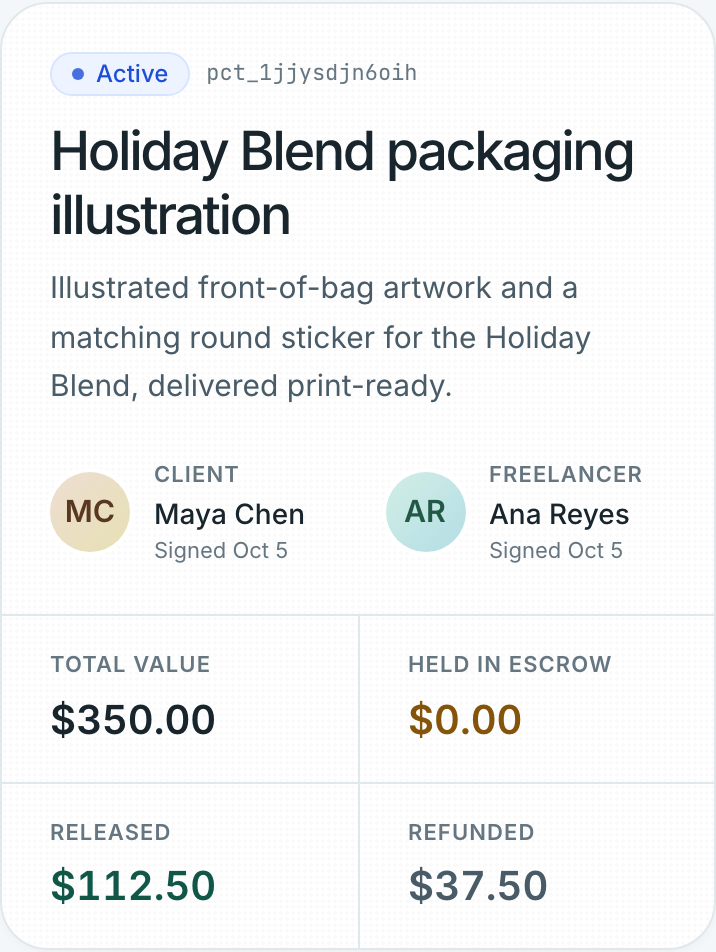
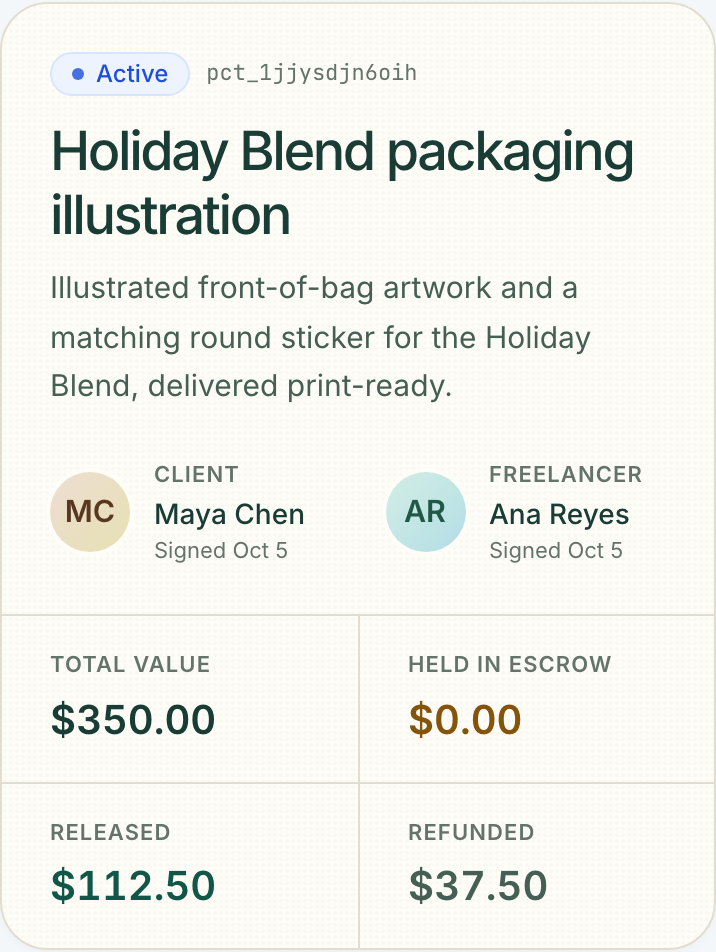
Keep workflow selections stable and refine cream and green walkthroughs

diff --git a/src/components/marketing/site.css b/src/components/marketing/site.css
@@ -1,22 +1,22 @@
-.kept-site{--site-dark:#163d32;--site-muted:#71817b;background:#fbfcfa;color:#182f27;font-family:var(--font-sans);overflow:hidden}.site-wrap{max-width:1200px;margin:auto;padding-left:32px;padding-right:32px}.site-nav{position:sticky;top:0;z-index:40;background:#fbfcfae8;backdrop-filter:blur(18px);border-bottom:1px solid #e9ede8}.nav-inner{height:84px;display:flex;align-items:center;gap:64px}.nav-inner nav{display:flex;gap:28px;font-size:13px;color:#56635d}.nav-inner a:hover{color:#148a6f}.nav-actions{margin-left:auto;display:flex;align-items:center;gap:25px;font-size:13px}.site-button{display:inline-flex;align-items:center;justify-content:center;gap:20px;border-radius:12px;background:#193e32;color:#fff!important;padding:17px 23px;font-size:13px;font-weight:600;box-shadow:0 5px 15px #193e3212;transition:transform .2s,background .2s,box-shadow .2s}.site-button:hover{background:#28604c;transform:translateY(-3px);box-shadow:0 9px 20px #193e3222}.site-button.small{padding:12px 17px;border-radius:9px;gap:12px}.site-button.secondary{background:#fff;color:#244435!important;border:1px solid #dce4dd;box-shadow:none;gap:10px}.site-hero{display:grid;grid-template-columns:1fr 1fr;gap:58px;align-items:center;min-height:680px;padding-top:64px;padding-bottom:64px}.eyebrow{font-size:10px;letter-spacing:.15em;font-weight:600;color:#557666;display:flex;align-items:center;gap:8px}.eyebrow>span{width:6px;height:6px;border-radius:50%;background:#49a07d;box-shadow:0 0 0 4px #e5f1e8}.hero-copy h1{font-size:clamp(54px,5.8vw,79px);line-height:1.06;letter-spacing:-.065em;font-weight:500;margin:26px 0}.hero-copy h1>span{color:#5c876b}.hero-copy>p{font-size:16px;line-height:1.8;max-width:400px;color:#6a7770}.hero-actions{display:flex;gap:12px;margin-top:32px;flex-wrap:wrap}.hero-note{display:flex;align-items:center;gap:10px;font-size:11px;color:#7a877f;margin-top:21px}.tiny-check{display:flex;align-items:center;justify-content:center;width:15px;height:15px;border-radius:50%;background:#e4eee5;color:#42724e}.hero-product{position:relative;padding:8px 12px 30px}.product-halo{position:absolute;inset:7% -15%;background:radial-gradient(ellipse,#d7e8cf 0%,#eef4e780 52%,transparent 70%);filter:blur(5px)}.product-preview{position:relative;background:white;border:1px solid #e1e8df;border-radius:18px;box-shadow:0 32px 65px -35px #173c3245,0 2px 8px #193e320a;transform:rotate(2deg);transition:transform .6s}.product-preview:hover{transform:rotate(0)}.preview-toolbar{display:flex;gap:15px;align-items:center;padding:16px 20px;border-bottom:1px solid #ecf0eb;font-size:9px;color:#8b978f}.preview-toolbar>svg{margin-left:auto}.preview-dots{display:flex;gap:4px}.preview-dots i{width:5px;height:5px;background:#d8e0d7;border-radius:50%}.preview-body{padding:25px}.preview-top{display:flex;align-items:center;justify-content:space-between}.preview-label{font-size:9px;letter-spacing:.14em;color:#8b978f}.preview-live{font-size:9px;background:#f0f5ed;padding:5px 8px;border-radius:20px;color:#6b8465;display:flex;gap:5px;align-items:center}.preview-live i{width:4px;height:4px;background:#7a9b66;border-radius:50%}.preview-body h3{font-size:25px;letter-spacing:-.04em;font-weight:500;line-height:1.2;margin-top:15px}.preview-people{display:flex;align-items:center;margin-top:15px;gap:0}.mini-avatar{width:26px;height:26px;border:2px solid white;border-radius:50%;background:#edddc5;color:#876a3e;display:inline-flex;align-items:center;justify-content:center;font-size:8px;font-weight:600}.mini-avatar.mint{background:#d7e6d1;color:#5c7b53;margin-left:-5px}.preview-people>span:last-child{display:flex;gap:7px;margin-left:9px;color:#80907f;font-size:9px}.preview-art{position:relative;overflow:hidden;height:202px;border-radius:10px;background:#dfb389;margin-top:22px;display:flex;align-items:center;justify-content:center}.art-sun{position:absolute;right:-15px;top:-55px;background:#f4d19c;width:200px;height:200px;border-radius:50%}.art-orbit{position:absolute;width:250px;height:110px;border:1px solid #936b3f30;border-radius:50%;transform:rotate(-35deg);left:-100px;bottom:20px}.art-orbit.o2{left:-80px;bottom:0}.coffee-bag{z-index:1;position:relative;transform:rotate(-8deg);width:109px;height:168px;background:#2b503e;box-shadow:10px 10px 20px #462e2730;border-radius:6px 6px 12px 12px;color:#e9d4ae;padding:17px 13px;display:flex;flex-direction:column;border-top:9px solid #335d48;border-bottom:6px solid #234232}.coffee-bag>span{font-size:8px;letter-spacing:.2em}.bag-mark{font-size:32px;line-height:40px;color:#dcaa71}.coffee-bag b{font-size:17px;line-height:18px;font-family:Georgia,serif;font-weight:400}.coffee-bag small{font-size:5px;letter-spacing:.15em;margin-top:auto}.art-caption{position:absolute;right:18px;bottom:20px;font-size:8px;line-height:1.7;letter-spacing:.13em;color:#6c4b31}.preview-result{display:flex;gap:11px;align-items:center;background:#f6f8f3;padding:13px;border:1px solid #e7ede2;border-radius:10px;margin-top:17px;min-height:65px}.result-icon{width:32px;height:32px;display:flex;align-items:center;justify-content:center;border-radius:8px;background:white;color:#5d885b}.result-icon svg{width:17px}.preview-result b{display:block;font-size:11px;font-weight:500}.preview-result span{display:block;font-size:9px;color:#8b9688;margin-top:4px}.result-check{margin-left:auto;color:#6b9762}.floating-note{position:absolute;bottom:4px;left:-20px;background:white;box-shadow:0 8px 35px #153d3210;border:1px solid #e5eae1;border-radius:11px;padding:17px 20px;display:flex;gap:12px;align-items:center;font-size:11px;color:#4c7358;animation:note-float 6s ease-in-out infinite}.trust-row{display:flex;align-items:center;justify-content:space-between;gap:20px;border-top:1px solid #e7ece5;border-bottom:1px solid #e7ece5;padding-top:27px;padding-bottom:27px;color:#677b6d;font-size:12px}.trust-row>span{color:#97a197;font-size:11px}.trust-row>div{display:flex;gap:10px;align-items:center}.workflow-section{padding-top:104px;padding-bottom:100px}.section-heading{display:flex;align-items:end;justify-content:space-between;gap:30px;margin-bottom:35px}.section-heading h2,.review-copy h2,.closing-card h2{font-size:43px;line-height:1.16;letter-spacing:-.055em;font-weight:500;margin-top:16px}.section-heading>p{font-size:13px;line-height:1.8;color:#859084}.workflow-grid{display:grid;grid-template-columns:repeat(3,1fr);gap:18px}.workflow-card{text-align:left;position:relative;border:1px solid #e5eae2;border-radius:16px;padding:29px;background:white;transition:border-color .3s,box-shadow .3s;cursor:pointer}.workflow-card.selected{border-color:#779a77;background:#f4f8f0;box-shadow:0 8px 24px #193e3208}.workflow-card:hover{border-color:#8fa68b;box-shadow:0 12px 30px #193e320c}.workflow-num{position:absolute;right:24px;top:25px;font-size:10px;color:#a2afa0}.workflow-card>svg{color:#537756;margin:12px 0 24px}.workflow-card h3{font-size:21px;letter-spacing:-.03em;font-weight:500}.workflow-card p{font-size:12px;line-height:1.8;color:#7d8b7c;margin:10px 0 24px;max-width:220px}.workflow-footer{border-top:1px solid #e2e9dc;padding-top:16px;display:flex;align-items:center;justify-content:space-between;font-size:10px;gap:12px;color:#547153}.review-section{display:grid;grid-template-columns:1fr 1fr;gap:85px;padding-top:32px;padding-bottom:112px;align-items:center}.review-visual{background:white;border:1px solid #e2e8df;border-radius:17px;padding:28px;box-shadow:0 20px 50px -20px #193e321c}.review-heading{display:flex;justify-content:space-between;align-items:center;padding-bottom:25px}.review-heading>span:first-child{display:flex;gap:10px;align-items:center;font-size:13px;font-weight:600;color:#345b45}.review-chip{font-size:9px;background:#f0f4ed;padding:5px 8px;border-radius:6px;color:#7e9272}.review-line{display:flex;align-items:center;gap:12px;padding:20px 0;border-top:1px solid #eef1eb}.check-circle,.question-circle{width:26px;height:26px;border-radius:50%;background:#e8f1e4;color:#548148;display:flex;align-items:center;justify-content:center;flex-shrink:0;font-size:13px}.question-circle{background:#fff3d9;color:#a58436}.review-line b{font-size:11px;font-weight:500;display:block}.review-line small{font-size:10px;color:#9aa497;display:block;margin-top:5px}.review-line>span:last-child{font-size:9px;margin-left:auto;color:#7b8b70;white-space:nowrap}.review-bottom{display:flex;align-items:center;gap:12px;background:#f5f7f1;padding:13px;border-radius:9px;font-size:10px;color:#78906e;margin-top:12px}.review-copy>p{font-size:14px;line-height:1.9;color:#7b887c;margin-top:20px}.review-points{display:flex;flex-direction:column;gap:14px;margin-top:24px;font-size:11px;color:#557452}.review-points>span{display:flex;align-items:center;gap:10px}.agent-strip{display:flex;align-items:center;gap:25px;padding:36px 40px;background:#edf3e8;border:1px solid #e1e8da;border-radius:15px}.agent-icon{background:white;padding:20px;border-radius:15px;color:#537347}.agent-strip h3{font-size:20px;font-weight:500;letter-spacing:-.03em;margin:9px 0}.agent-strip p{font-size:12px;color:#83927c}.agent-strip>a{display:flex;align-items:center;gap:10px;margin-left:auto;white-space:nowrap;font-size:12px;color:#3c663b}.agent-strip .eyebrow{font-size:8px}.closing-card{text-align:center;border-radius:20px;padding:75px 20px;margin:90px 0 60px;background:radial-gradient(ellipse at 50% 20%,#f1f6e8,transparent 65%);border:1px solid #e7ecdf}.closing-symbol{display:flex;align-items:center;justify-content:center;margin:0 auto 22px;width:54px;height:54px;background:#ecf2e4;border-radius:16px;color:#6a8d55}.closing-card h2{font-size:49px}.closing-card>p{font-size:13px;color:#87947f;margin:19px 0 28px}.closing-card .text-button{display:flex;align-items:center;justify-content:center;gap:6px;font-size:11px;margin:20px auto 0;color:#7d9073}.site-footer{display:flex;align-items:center;gap:24px;padding-bottom:35px;font-size:10px;color:#95a18d}.site-footer p{margin-left:auto}.demo-overlay{position:fixed;inset:0;z-index:80;background:#142f2855;backdrop-filter:blur(6px);display:flex;align-items:center;justify-content:center;padding:20px}.demo-modal{background:#fff;border-radius:20px;padding:35px;max-width:600px;width:100%;position:relative;box-shadow:0 25px 90px #112e2740}.demo-modal h2{font-size:30px;letter-spacing:-.05em;margin:15px 0 10px}.demo-modal>p{font-size:13px;color:#83927d;margin-bottom:25px}.modal-close{position:absolute;right:20px;top:20px;color:#83927d}.kept-site a:focus-visible,.kept-site button:focus-visible{outline:2px solid #689564;outline-offset:5px}@keyframes note-float{50%{transform:translateY(-7px)}}
+.kept-site{--site-dark:#163d32;--site-muted:#71817b;background:#fbfcfa;color:#182f27;font-family:var(--font-sans);overflow:hidden}.site-wrap{max-width:1200px;margin:auto;padding-left:32px;padding-right:32px}.site-nav{position:sticky;top:0;z-index:40;background:#fbfcfae8;backdrop-filter:blur(18px);border-bottom:1px solid #e9ede8}.nav-inner{height:84px;display:flex;align-items:center;gap:64px}.nav-inner nav{display:flex;gap:28px;font-size:13px;color:#56635d}.nav-inner a:hover{color:#148a6f}.nav-actions{margin-left:auto;display:flex;align-items:center;gap:25px;font-size:13px}.site-button{display:inline-flex;align-items:center;justify-content:center;gap:20px;border-radius:12px;background:#193e32;color:#fff!important;padding:17px 23px;font-size:13px;font-weight:600;box-shadow:0 5px 15px #193e3212;transition:transform .2s,background .2s,box-shadow .2s}.site-button:hover{background:#28604c;transform:translateY(-3px);box-shadow:0 9px 20px #193e3222}.site-button.small{padding:12px 17px;border-radius:9px;gap:12px}.site-button.secondary{background:#fff;color:#244435!important;border:1px solid #dce4dd;box-shadow:none;gap:10px}.site-hero{display:grid;grid-template-columns:1fr 1fr;gap:58px;align-items:center;min-height:680px;padding-top:64px;padding-bottom:64px}.eyebrow{font-size:10px;letter-spacing:.15em;font-weight:600;color:#557666;display:flex;align-items:center;gap:8px}.eyebrow>span{width:6px;height:6px;border-radius:50%;background:#49a07d;box-shadow:0 0 0 4px #e5f1e8}.hero-copy h1{font-size:clamp(54px,5.8vw,79px);line-height:1.06;letter-spacing:-.065em;font-weight:500;margin:26px 0}.hero-copy h1>span{color:#5c876b}.hero-copy>p{font-size:16px;line-height:1.8;max-width:400px;color:#6a7770}.hero-actions{display:flex;gap:12px;margin-top:32px;flex-wrap:wrap}.hero-note{display:flex;align-items:center;gap:10px;font-size:11px;color:#7a877f;margin-top:21px}.tiny-check{display:flex;align-items:center;justify-content:center;width:15px;height:15px;border-radius:50%;background:#e4eee5;color:#42724e}.hero-product{position:relative;padding:8px 12px 30px}.product-halo{position:absolute;inset:7% -15%;background:radial-gradient(ellipse,#d7e8cf 0%,#eef4e780 52%,transparent 70%);filter:blur(5px)}.product-preview{position:relative;background:white;border:1px solid #e1e8df;border-radius:18px;box-shadow:0 32px 65px -35px #173c3245,0 2px 8px #193e320a;transform:rotate(2deg);transition:transform .6s}.product-preview:hover{transform:rotate(0)}.preview-toolbar{display:flex;gap:15px;align-items:center;padding:16px 20px;border-bottom:1px solid #ecf0eb;font-size:9px;color:#8b978f}.preview-toolbar>svg{margin-left:auto}.preview-dots{display:flex;gap:4px}.preview-dots i{width:5px;height:5px;background:#d8e0d7;border-radius:50%}.preview-body{padding:25px}.preview-top{display:flex;align-items:center;justify-content:space-between}.preview-label{font-size:9px;letter-spacing:.14em;color:#8b978f}.preview-live{font-size:9px;background:#f0f5ed;padding:5px 8px;border-radius:20px;color:#6b8465;display:flex;gap:5px;align-items:center}.preview-live i{width:4px;height:4px;background:#7a9b66;border-radius:50%}.preview-body h3{font-size:25px;letter-spacing:-.04em;font-weight:500;line-height:1.2;margin-top:15px}.preview-people{display:flex;align-items:center;margin-top:15px;gap:0}.mini-avatar{width:26px;height:26px;border:2px solid white;border-radius:50%;background:#edddc5;color:#876a3e;display:inline-flex;align-items:center;justify-content:center;font-size:8px;font-weight:600}.mini-avatar.mint{background:#d7e6d1;color:#5c7b53;margin-left:-5px}.preview-people>span:last-child{display:flex;gap:7px;margin-left:9px;color:#80907f;font-size:9px}.preview-art{position:relative;overflow:hidden;height:202px;border-radius:10px;background:#dfb389;margin-top:22px;display:flex;align-items:center;justify-content:center}.art-sun{position:absolute;right:-15px;top:-55px;background:#f4d19c;width:200px;height:200px;border-radius:50%}.art-orbit{position:absolute;width:250px;height:110px;border:1px solid #936b3f30;border-radius:50%;transform:rotate(-35deg);left:-100px;bottom:20px}.art-orbit.o2{left:-80px;bottom:0}.coffee-bag{z-index:1;position:relative;transform:rotate(-8deg);width:109px;height:168px;background:#2b503e;box-shadow:10px 10px 20px #462e2730;border-radius:6px 6px 12px 12px;color:#e9d4ae;padding:17px 13px;display:flex;flex-direction:column;border-top:9px solid #335d48;border-bottom:6px solid #234232}.coffee-bag>span{font-size:8px;letter-spacing:.2em}.bag-mark{font-size:32px;line-height:40px;color:#dcaa71}.coffee-bag b{font-size:17px;line-height:18px;font-family:Georgia,serif;font-weight:400}.coffee-bag small{font-size:5px;letter-spacing:.15em;margin-top:auto}.art-caption{position:absolute;right:18px;bottom:20px;font-size:8px;line-height:1.7;letter-spacing:.13em;color:#6c4b31}.preview-result{display:flex;gap:11px;align-items:center;background:#f6f8f3;padding:13px;border:1px solid #e7ede2;border-radius:10px;margin-top:17px;min-height:65px}.result-icon{width:32px;height:32px;display:flex;align-items:center;justify-content:center;border-radius:8px;background:white;color:#5d885b}.result-icon svg{width:17px}.preview-result b{display:block;font-size:11px;font-weight:500}.preview-result span{display:block;font-size:9px;color:#8b9688;margin-top:4px}.result-check{margin-left:auto;color:#6b9762}.floating-note{position:absolute;bottom:4px;left:-20px;background:white;box-shadow:0 8px 35px #153d3210;border:1px solid #e5eae1;border-radius:11px;padding:17px 20px;display:flex;gap:12px;align-items:center;font-size:11px;color:#4c7358;animation:note-float 6s ease-in-out infinite}.trust-row{display:flex;align-items:center;justify-content:space-between;gap:20px;border-top:1px solid #e7ece5;border-bottom:1px solid #e7ece5;padding-top:27px;padding-bottom:27px;color:#677b6d;font-size:12px}.trust-row>span{color:#97a197;font-size:11px}.trust-row>div{display:flex;gap:10px;align-items:center}.workflow-section{padding-top:104px;padding-bottom:100px}.section-heading{display:flex;align-items:end;justify-content:space-between;gap:30px;margin-bottom:35px}.section-heading h2,.review-copy h2,.closing-card h2{font-size:43px;line-height:1.16;letter-spacing:-.055em;font-weight:500;margin-top:16px}.section-heading>p{font-size:13px;line-height:1.8;color:#627165}.workflow-grid{display:grid;grid-template-columns:repeat(3,1fr);gap:18px}.workflow-card{text-align:left;position:relative;border:1px solid #e5eae2;border-radius:16px;padding:29px;background:white;transition:border-color .3s,box-shadow .3s;cursor:pointer}.workflow-card.selected{border-color:#779a77;background:#f4f8f0;box-shadow:0 8px 24px #193e3208}.workflow-card:hover{border-color:#8fa68b;box-shadow:0 12px 30px #193e320c}.workflow-num{position:absolute;right:24px;top:25px;font-size:10px;color:#a2afa0}.workflow-card>svg{color:#537756;margin:12px 0 24px}.workflow-card h3{font-size:21px;letter-spacing:-.03em;font-weight:500}.workflow-card p{font-size:12px;line-height:1.8;color:#5e7162;margin:10px 0 24px;max-width:220px}.workflow-footer{border-top:1px solid #e2e9dc;padding-top:16px;display:flex;align-items:center;justify-content:space-between;font-size:10px;gap:12px;color:#547153}.review-section{display:grid;grid-template-columns:1fr 1fr;gap:85px;padding-top:32px;padding-bottom:112px;align-items:center}.review-visual{background:white;border:1px solid #e2e8df;border-radius:17px;padding:28px;box-shadow:0 20px 50px -20px #193e321c}.review-heading{display:flex;justify-content:space-between;align-items:center;padding-bottom:25px}.review-heading>span:first-child{display:flex;gap:10px;align-items:center;font-size:13px;font-weight:600;color:#345b45}.review-chip{font-size:9px;background:#f0f4ed;padding:5px 8px;border-radius:6px;color:#7e9272}.review-line{display:flex;align-items:center;gap:12px;padding:20px 0;border-top:1px solid #eef1eb}.check-circle,.question-circle{width:26px;height:26px;border-radius:50%;background:#e8f1e4;color:#548148;display:flex;align-items:center;justify-content:center;flex-shrink:0;font-size:13px}.question-circle{background:#fff3d9;color:#a58436}.review-line b{font-size:11px;font-weight:500;display:block}.review-line small{font-size:10px;color:#9aa497;display:block;margin-top:5px}.review-line>span:last-child{font-size:9px;margin-left:auto;color:#7b8b70;white-space:nowrap}.review-bottom{display:flex;align-items:center;gap:12px;background:#f5f7f1;padding:13px;border-radius:9px;font-size:10px;color:#78906e;margin-top:12px}.review-copy>p{font-size:14px;line-height:1.9;color:#5e7062;margin-top:20px}.review-points{display:flex;flex-direction:column;gap:14px;margin-top:24px;font-size:11px;color:#557452}.review-points>span{display:flex;align-items:center;gap:10px}.agent-strip{display:flex;align-items:center;gap:25px;padding:36px 40px;background:#edf3e8;border:1px solid #e1e8da;border-radius:15px}.agent-icon{background:white;padding:20px;border-radius:15px;color:#537347}.agent-strip h3{font-size:20px;font-weight:500;letter-spacing:-.03em;margin:9px 0}.agent-strip p{font-size:12px;color:#83927c}.agent-strip>a{display:flex;align-items:center;gap:10px;margin-left:auto;white-space:nowrap;font-size:12px;color:#3c663b}.agent-strip .eyebrow{font-size:8px}.closing-card{text-align:center;border-radius:20px;padding:75px 20px;margin:90px 0 60px;background:radial-gradient(ellipse at 50% 20%,#f1f6e8,transparent 65%);border:1px solid #e7ecdf}.closing-symbol{display:flex;align-items:center;justify-content:center;margin:0 auto 22px;width:54px;height:54px;background:#ecf2e4;border-radius:16px;color:#6a8d55}.closing-card h2{font-size:49px}.closing-card>p{font-size:13px;color:#87947f;margin:19px 0 28px}.closing-card .text-button{display:flex;align-items:center;justify-content:center;gap:6px;font-size:11px;margin:20px auto 0;color:#7d9073}.site-footer{display:flex;align-items:center;gap:24px;padding-bottom:35px;font-size:10px;color:#95a18d}.site-footer p{margin-left:auto}.demo-overlay{position:fixed;inset:0;z-index:80;background:#142f2855;backdrop-filter:blur(6px);display:flex;align-items:center;justify-content:center;padding:20px}.demo-modal{background:#fff;border-radius:20px;padding:35px;max-width:600px;width:100%;position:relative;box-shadow:0 25px 90px #112e2740}.demo-modal h2{font-size:30px;letter-spacing:-.05em;margin:15px 0 10px}.demo-modal>p{font-size:13px;color:#83927d;margin-bottom:25px}.modal-close{position:absolute;right:20px;top:20px;color:#83927d}.kept-site a:focus-visible,.kept-site button:focus-visible{outline:2px solid #689564;outline-offset:5px}@keyframes note-float{50%{transform:translateY(-7px)}}
 @media(max-width:900px){.nav-inner{gap:25px}.nav-inner nav{gap:14px;font-size:11px}.site-hero{gap:20px}.hero-copy h1{font-size:58px}.hero-copy>p{font-size:14px}.preview-body{padding:18px}.review-section{gap:35px}.site-footer{flex-wrap:wrap}.site-footer p{margin-left:0}.agent-strip{padding:25px}.agent-strip>a{font-size:10px}.floating-note{left:-10px;font-size:10px}.section-heading h2,.review-copy h2{font-size:36px}}
 @media(max-width:650px){.site-wrap{padding-left:22px;padding-right:22px}.nav-inner{height:70px}.nav-inner nav{display:none}.nav-actions{gap:15px}.nav-actions>a:first-child{font-size:11px}.site-button.small{font-size:11px;padding:10px 12px}.site-hero{grid-template-columns:1fr;padding-top:49px;gap:38px}.hero-copy h1{font-size:61px;line-height:1.05}.hero-copy>p{max-width:330px;font-size:14px}.hero-product{max-width:430px;width:100%;margin:auto;padding:10px 9px 30px}.preview-art{height:190px}.floating-note{left:0}.trust-row{flex-wrap:wrap;justify-content:center;font-size:10px;gap:16px}.trust-row>span{width:100%;text-align:center}.trust-row>div{gap:5px}.workflow-section{padding-top:65px;padding-bottom:60px}.section-heading{display:block}.section-heading>p{margin-top:18px}.section-heading h2{font-size:37px}.workflow-grid{grid-template-columns:1fr;gap:12px}.workflow-card{padding:24px}.workflow-card>svg{margin:0 0 15px}.workflow-card p{max-width:100%;margin-bottom:16px}.review-section{grid-template-columns:1fr;padding-bottom:60px;gap:35px}.review-copy{grid-row:1}.review-visual{padding:20px}.review-copy h2{font-size:39px}.agent-strip{align-items:start;flex-wrap:wrap;gap:18px}.agent-icon{padding:13px}.agent-strip>div:nth-child(2){flex:1;min-width:190px}.agent-strip h3{font-size:19px}.agent-strip>a{margin-left:0;font-size:12px}.closing-card{margin:55px 0 30px;padding:50px 18px}.closing-card h2{font-size:39px}.site-footer{gap:15px}.site-footer>span{display:none}.site-footer p{font-size:9px}.hero-actions .site-button{font-size:12px;padding:15px 17px;gap:10px}.demo-modal{padding:29px 23px}}
 @media(prefers-reduced-motion:reduce){.floating-note{animation:none}.kept-site *{scroll-behavior:auto!important;transition:none!important}}
 /* Signature canvas: deep ink, luminous mint, and warm project artwork. */
-.kept-site{background:#f5f8f7;color:#18372f}
-.site-nav{background:#0e2528f2;border-bottom:1px solid #ffffff12;color:#d4e4df}
+.kept-site{background:#f8f4eb;color:#18372f}
+.site-nav{background:#102f27f2;border-bottom:1px solid #ffffff12;color:#d4e4df}
 .site-nav .display{color:#f2fff8;font-family:var(--font-sans);font-weight:600;letter-spacing:-.05em}
-.site-nav nav{color:#a8c1bc}.site-nav .site-button{background:#b9efcd;color:#123b31!important}.site-nav a:hover{color:#ddffe8}
-.hero-scene{position:relative;isolation:isolate;background:#0e2528;overflow:hidden}
+.site-nav nav{color:#a8c1bc}.site-nav .site-button{background:#dceac3;color:#123b31!important}.site-nav a:hover{color:#ddffe8}
+.hero-scene{position:relative;isolation:isolate;background:#102f27;overflow:hidden}
 .hero-grid{position:absolute;inset:0;z-index:-1;background-image:linear-gradient(#ffffff04 1px,transparent 1px),linear-gradient(90deg,#ffffff04 1px,transparent 1px);background-size:68px 68px;mask-image:linear-gradient(100deg,transparent,#000)}
 .ambient-orb{position:absolute;z-index:-1;border-radius:50%;filter:blur(80px);pointer-events:none;animation:ambient-drift 18s ease-in-out infinite alternate}
 .orb-one{width:600px;height:600px;right:-120px;top:-120px;background:#367b6638}.orb-two{width:400px;height:400px;left:25%;bottom:-260px;background:#69bd9433;animation-delay:-8s}
 .site-hero{min-height:710px;position:relative;gap:64px;padding-top:84px;padding-bottom:85px}
-.hero-copy h1{color:#f3faf6;font-size:clamp(56px,6vw,83px);font-weight:500;letter-spacing:-.065em}
+.hero-copy h1{color:#fff7e7;font-size:clamp(56px,6vw,83px);font-weight:500;letter-spacing:-.065em}
 .hero-copy h1>span{background:linear-gradient(100deg,#b3ecc8 15%,#70bca0 55%,#d3f5b8 95%);background-size:200%;background-clip:text;-webkit-text-fill-color:transparent;animation:gradient-shift 8s ease infinite alternate}
 .hero-copy .eyebrow{color:#a8ceba;font-size:9px;letter-spacing:.2em}.hero-copy .eyebrow>span{background:#b9edc8;box-shadow:0 0 0 5px #99dbb510,0 0 18px #b9edc8}
-.hero-copy>p{color:#9fb6b1;font-size:15px;max-width:370px}.hero-note{color:#89a7a0}.hero-note .tiny-check{background:#294940;color:#b9efcd}
-.hero-actions .site-button{background:#b9efcd;color:#123b31!important;box-shadow:0 0 30px #9ef1bc12}
+.hero-copy>p{color:#9fb6b1;font-size:15px;max-width:370px}.hero-note{color:#89a7a0}.hero-note .tiny-check{background:#294940;color:#dceac3}
+.hero-actions .site-button{background:#dceac3;color:#123b31!important;box-shadow:0 0 30px #9ef1bc12}
 .hero-actions .site-button:hover{background:#d5f8df;box-shadow:0 0 30px #9ef1bc30}
 .hero-actions .site-button.secondary{background:#ffffff06;border-color:#ffffff24;color:#e1eee8!important}
 .hero-product{perspective:1200px;padding-top:24px;padding-bottom:60px}.product-preview{transform:rotateY(-8deg) rotateX(3deg) rotateZ(2deg);box-shadow:0 40px 100px #0005;border-color:#f0f6f0;animation:preview-float 9s ease-in-out infinite}
@@ -25,13 +25,13 @@
 .preview-progress{position:absolute;bottom:-14px;left:15px;right:15px;display:flex;justify-content:center;gap:8px}
 .preview-progress button{position:relative;overflow:hidden;display:flex;align-items:center;gap:7px;padding:10px 15px;border-radius:8px;color:#809c95;font-size:10px;border:1px solid #ffffff13;background:#142f30}
 .preview-progress button.active{color:#d8fbe5;border-color:#80bc9970}.preview-progress button.active>span{position:absolute;height:2px;bottom:0;left:0;background:#afe9be;animation:stage-progress 4.5s linear forwards}
-.trust-row{max-width:none;padding-left:max(32px,calc((100% - 1136px)/2));padding-right:max(32px,calc((100% - 1136px)/2));background:#eaf0ed;color:#45695b;border:0;min-height:92px}
-.trust-row>span{color:#718779}.workflow-section{padding-top:95px}.workflow-card{border-radius:18px;padding:33px;background:#fff;border-color:#dce6df;min-height:260px;transition:transform .3s,border-color .3s,box-shadow .3s}
-.workflow-card:hover{transform:translateY(-7px)!important;box-shadow:0 20px 40px #143e3210}.workflow-card.selected{background:#163c34;color:#eff9f2;border-color:#163c34;box-shadow:0 18px 35px #183e3220}.workflow-card.selected p{color:#a7c6b7}.workflow-card.selected>svg{color:#bbebbf}.workflow-card.selected .workflow-footer{border-color:#ffffff20;color:#b5d7c4}.workflow-card.selected .workflow-num{color:#90b29f}
+.trust-row{max-width:none;padding-left:max(32px,calc((100% - 1136px)/2));padding-right:max(32px,calc((100% - 1136px)/2));background:#eee8da;color:#45695b;border:0;min-height:92px}
+.trust-row>span{color:#718779}.workflow-section{padding-top:95px}.workflow-card{border-radius:18px;padding:33px;background:#fff;border-color:#e0dbce;min-height:260px;transition:transform .3s,border-color .3s,box-shadow .3s}
+.workflow-card:hover{transform:translateY(-7px)!important;box-shadow:0 20px 40px #143e3210}.workflow-card.selected{background:#173f32;color:#fff8e9;border-color:#173f32;box-shadow:0 18px 35px #183e3220}.workflow-card.selected p{color:#d0dec5}.workflow-card.selected>svg{color:#bbebbf}.workflow-card.selected .workflow-footer{border-color:#ffffff20;color:#b5d7c4}.workflow-card.selected .workflow-num{color:#90b29f}
 .review-visual{position:relative;box-shadow:0 25px 70px -35px #254c3940;transform:rotate(-1.5deg);border-color:#dae5dd}.review-visual:before{content:"";position:absolute;inset:-20px;z-index:-1;border-radius:24px;border:1px solid #dce7dc;transform:rotate(4deg)}
 .review-line{transition:background .2s,transform .2s}.review-line:hover{background:#f7faf6;transform:translateX(4px)}
-.agent-strip{background:#172f32;border-color:#172f32;color:#f0f9f3;padding:42px;box-shadow:0 14px 35px #12393212}.agent-icon{background:#2b4848;color:#b4e4c5}.agent-strip .eyebrow{color:#92c7ab}.agent-strip p{color:#96b1aa}.agent-strip>a{color:#bcecc9}
-.closing-card{background:radial-gradient(ellipse at 50% 0%,#ddeddf,transparent 65%),#edf3ed;border-color:#d9e5d8}.closing-symbol{background:#193e32;color:#c0e8bd;box-shadow:0 8px 25px #173b3220}
+.agent-strip{background:#123a30;border-color:#123a30;color:#fff7e7;padding:42px;box-shadow:0 14px 35px #12393212}.agent-icon{background:#2b4848;color:#b4e4c5}.agent-strip .eyebrow{color:#92c7ab}.agent-strip p{color:#96b1aa}.agent-strip>a{color:#bcecc9}
+.closing-card{background:radial-gradient(ellipse at 50% 0%,#e3e9d4,transparent 65%),#eee7d8;border-color:#d9d8c4}.closing-symbol{background:#193e32;color:#c0e8bd;box-shadow:0 8px 25px #173b3220}
 @keyframes ambient-drift{to{transform:translate(60px,50px) scale(1.15)}}@keyframes gradient-shift{to{background-position:100%}}
 @keyframes preview-float{0%,100%{transform:rotateY(-8deg) rotateX(3deg) rotateZ(2deg) translateY(0)}50%{transform:rotateY(-4deg) rotateX(1deg) rotateZ(1deg) translateY(-9px)}}
 @keyframes stage-progress{from{width:0}to{width:100%}}
@@ -41,19 +41,22 @@
 .product-halo,.hero-grid{pointer-events:none}
 .preview-assurance{display:flex;align-items:center;justify-content:center;gap:7px;padding-top:16px;font-size:9px;color:#688575;letter-spacing:.01em}
 /* Actual product screenshots stay readable at every viewport. */
-.walkthrough-dialog{max-width:960px;padding:28px}
-.walkthrough-screenshot{overflow:hidden;border:1px solid #dce5e8;border-radius:14px;background:#f4f7f9;animation:walkthrough-enter .3s ease both}
-.walkthrough-screenshot-bar{display:flex;align-items:center;justify-content:space-between;padding:13px 18px;border-bottom:1px solid #e0e7ea;font-size:11px;color:#536975;background:white}
+.walkthrough-dialog{max-width:900px;padding:32px;background:#faf6ed;border-color:#d9d0bc;box-shadow:0 28px 100px #08291e40}.walkthrough-dialog h2{font-size:28px;line-height:1.15;color:#193e2e;letter-spacing:-.04em}.walkthrough-dialog h2+p{font-size:14px;line-height:1.6;color:#52664f;margin-top:10px}.walkthrough-step{display:flex;align-items:center;gap:9px;color:#315b40;font-size:11px;font-weight:600;margin-bottom:15px;letter-spacing:.08em;text-transform:uppercase}.walkthrough-step>span{display:grid;place-items:center;width:27px;height:27px;border-radius:8px;background:#173f32;color:#fff6df;font-size:10px;letter-spacing:0}
+.walkthrough-screenshot{overflow:hidden;border:1px solid #ddd5c4;border-radius:14px;background:#f2ebdd;animation:walkthrough-enter .3s ease both}
+.walkthrough-screenshot-bar{display:flex;align-items:center;justify-content:space-between;padding:13px 18px;border-bottom:1px solid #e5dece;font-size:11px;color:#49634f;background:#eee7d7}
 .walkthrough-screenshot-bar>span,.walkthrough-screenshot-bar a{display:flex;align-items:center;gap:7px}
 .walkthrough-status-dot{width:6px;height:6px;border-radius:50%;background:#24806b}
-.walkthrough-image-scroll{max-height:56vh;overflow:auto;background:white;scrollbar-width:thin}
+.walkthrough-image-scroll{max-height:50vh;overflow:auto;background:#fffdf8;scrollbar-width:thin;scrollbar-color:#8a9f80 #f5efe2;padding:16px}.walkthrough-image-scroll picture{display:block;overflow:hidden;border:1px solid #e5e0d5;border-radius:12px}
 .walkthrough-image{display:block;width:100%;height:auto}
-.walkthrough-screenshot figcaption{padding:14px 18px;font-size:12px;line-height:1.6;color:#364f5a}
-.walkthrough-screenshot figcaption>span{display:block;font-size:10px;color:#6a7d87;margin-top:3px}
+.walkthrough-screenshot figcaption{border-top:1px solid #e3dbc9;padding:16px 20px;font-size:13px;line-height:1.6;color:#234d3b}
+.walkthrough-screenshot figcaption>span{display:block;font-size:10px;color:#68755f;margin-top:3px}
 .walkthrough-actions{display:flex;align-items:center;justify-content:space-between;gap:15px;margin-top:22px}
-.walkthrough-actions .site-button{padding:13px 17px;font-size:11px}
-.walkthrough-back{font-size:12px;color:#536975}
+.walkthrough-actions .site-button{padding:14px 20px;font-size:12px;background:#173f32;color:#fff8e9!important}
+.walkthrough-back{font-size:12px;color:#49634f}
 .workflow-card:focus-visible,.walkthrough-screenshot-bar a:focus-visible,.walkthrough-back:focus-visible{outline:2px solid #31836e;outline-offset:4px}
 @keyframes walkthrough-enter{from{opacity:0;transform:translateY(8px)}to{opacity:1;transform:none}}
-@media(max-width:650px){.walkthrough-dialog{padding:20px}.walkthrough-image-scroll{max-height:50vh}.walkthrough-actions{flex-wrap:wrap}.walkthrough-screenshot-bar{padding:12px}.walkthrough-screenshot figcaption{padding:12px}}
+@media(max-width:650px){.walkthrough-dialog{padding:20px}.walkthrough-dialog h2{font-size:24px}.walkthrough-image-scroll{max-height:45vh;padding:9px}.walkthrough-actions{flex-wrap:wrap}.walkthrough-screenshot-bar{padding:12px}.walkthrough-screenshot figcaption{padding:12px}}
 @media(prefers-reduced-motion:reduce){.walkthrough-screenshot{animation:none}}
+
+/* Warm canvas, strong green wayfinding, blue reserved for payments. */
+.trust-row>div:first-of-type{color:#003087}.workflow-card{background:#fffdf7}.workflow-card:not(.selected)>svg{color:#315d44}.workflow-card.selected .workflow-footer{color:#e0ebd2}.workflow-card.selected>svg{color:#e0eec9}.workflow-footer{color:#3d6546}.section-heading>p,.review-copy>p{color:#526951}.review-line small{color:#66745e}.review-visual{background:#fffdf7}.agent-strip>a{color:#deedca}.closing-card>p{color:#5e7055}.preview-assurance{color:#49674e}.hero-copy>p{color:#c1cfbc}.hero-note{color:#c0d0b5}.hero-copy h1>span{background-image:linear-gradient(100deg,#e5edbb 15%,#b2d3a1 55%,#e9daa9 95%)}

diff --git a/src/components/marketing/landing.tsx b/src/components/marketing/landing.tsx
@@ -33,8 +33,8 @@ function Preview({stage}:{stage:number}) {
  </div>;
 }
 export function Landing() {
- const [stage,setStage]=useState(0); const [walkthrough,setWalkthrough]=useState<number|null>(null); const [demo,setDemo]=useState(false); const reduced=useReducedMotion();
- useEffect(()=>{if(reduced)return;const timer=setInterval(()=>setStage(s=>(s+1)%3),4500);return()=>clearInterval(timer);},[reduced]);
+ const [stage,setStage]=useState(0); const [selectedCard,setSelectedCard]=useState<number|null>(null); const [walkthrough,setWalkthrough]=useState<number|null>(null); const [demo,setDemo]=useState(false); const reduced=useReducedMotion();
+ useEffect(()=>{if(reduced||walkthrough!==null)return;const timer=setInterval(()=>setStage(s=>(s+1)%3),4500);return()=>clearInterval(timer);},[reduced,walkthrough]);
  const reveal={initial:{opacity:0,y:reduced?0:24},whileInView:{opacity:1,y:0},viewport:{once:true,amount:.15},transition:{duration:.6}};
  return <div className="kept-site">
   <header className="site-nav"><div className="site-wrap nav-inner"><Logo/><nav aria-label="Main navigation"><a href="#how">How it works</a><a href="#review">AI review</a><a href="#agents">For agents</a></nav><div className="nav-actions"><Link href="/login">Sign in</Link><Link className="site-button small" href="/signup">Get started <ArrowUpRight size={15}/></Link></div></div></header>
@@ -44,16 +44,16 @@ export function Landing() {
     <motion.div {...reveal} transition={{duration:.8,delay:.15}} className="hero-product"><div className="product-halo"/><Preview stage={stage}/><div className="preview-progress">{stages.map((item,i)=><button key={item.name} onClick={()=>setStage(i)} className={i===stage?"active":""} aria-label={`Preview ${item.name}`}><item.icon size={13}/>{item.name}<span/></button>)}</div></motion.div>
    </section></div>
    <div className="site-wrap trust-row"><span>A little more certainty on both sides.</span><div><LockKeyhole size={16}/> PayPal payments</div><div><Sparkles size={16}/> Evidence-led AI</div><div><Fingerprint size={16}/> Signed by both</div></div>
-   <section id="how" className="site-wrap workflow-section"><motion.div {...reveal} className="section-heading"><div><span className="eyebrow">A BETTER WAY TO WORK</span><h2>One place.<br/>From “let’s do it” to done.</h2></div><p>Keep the conversation wherever it started.<br/>Bring the agreement here.</p></motion.div><div className="workflow-grid">{stages.map((s,i)=><motion.button {...reveal} transition={{duration:.5,delay:i*.08}} key={s.name} className={`workflow-card ${stage===i?'selected':''}`} onClick={()=>{setStage(i);setWalkthrough(i);}}><span className="workflow-num">0{i+1}</span><s.icon size={28}/><h3>{s.name}</h3><p>{s.text}</p><span className="workflow-footer">{s.title}<ArrowRight size={16}/></span></motion.button>)}</div></section>
+   <section id="how" className="site-wrap workflow-section"><motion.div {...reveal} className="section-heading"><div><span className="eyebrow">A BETTER WAY TO WORK</span><h2>One place.<br/>From “let’s do it” to done.</h2></div><p>Keep the conversation wherever it started.<br/>Bring the agreement here.</p></motion.div><div className="workflow-grid">{stages.map((s,i)=><motion.button {...reveal} transition={{duration:.5,delay:i*.08}} key={s.name} aria-pressed={selectedCard===i} className={`workflow-card ${selectedCard===i?'selected':''}`} onClick={()=>{setSelectedCard(i);setStage(i);setWalkthrough(i);}}><span className="workflow-num">0{i+1}</span><s.icon size={28}/><h3>{s.name}</h3><p>{s.text}</p><span className="workflow-footer">{s.title}<ArrowRight size={16}/></span></motion.button>)}</div></section>
    <section id="review" className="site-wrap review-section"><motion.div {...reveal} className="review-visual"><div className="review-heading"><span><Sparkles size={18}/> AI review</span><span className="review-chip">Evidence first</span></div>{[{title:"Print-ready PNG",label:"Verified",detail:"2,400 × 2,400 pixels",ok:true},{title:"Two distinct concepts",label:"Verified",detail:"Both concepts are attached",ok:true},{title:"Warm, editorial style",label:"Your call",detail:"Compare with your agreed references",ok:false}].map((r,i)=><motion.div {...reveal} transition={{delay:i*.12}} className="review-line" key={r.title}><span className={r.ok?'check-circle':'question-circle'}>{r.ok?<Check size={15}/>:"?"}</span><div><b>{r.title}</b><small>{r.detail}</small></div><span>{r.label}</span></motion.div>)}<div className="review-bottom"><div className="mini-avatar mint">AR</div><p>“I can see exactly what to improve.”</p></div></motion.div><motion.div {...reveal} className="review-copy"><span className="eyebrow">A SECOND OPINION. WITH RECEIPTS.</span><h2>Creative work<br/>isn’t a checkbox.</h2><p>Agree on references, audience, and style before signing. The referee explains its findings against that brief. When the evidence is uncertain, people decide.</p><div className="review-points"><span><Check size={16}/> Clear evidence for each criterion</span><span><Check size={16}/> Revisions before disagreements grow</span><span><Check size={16}/> Mediation only settles when both agree</span></div></motion.div></section>
    <section id="agents" className="site-wrap"><motion.div {...reveal} className="agent-strip"><div className="agent-icon"><Code2 size={27}/></div><div><span className="eyebrow">HUMANS. AGENTS. BETTER TOGETHER.</span><h3>The same safeguards, through an API.</h3><p>Let an agent draft, hire, submit work, and follow payment status.</p></div><Link href="/app/developers">Explore the API <ArrowUpRight size={18}/></Link></motion.div></section>
    <section className="site-wrap"><motion.div {...reveal} className="closing-card"><div className="closing-symbol"><Layers3 size={30}/></div><h2>Your next project.<br/>On the same page.</h2><p>Make the agreement as good as the work.</p><Link className="site-button" href="/signup">Make your first pact <ArrowUpRight size={18}/></Link><button className="text-button" onClick={()=>setDemo(true)}>Or try both sides of a demo <ChevronRight size={15}/></button></motion.div></section>
   </main><footer className="site-wrap site-footer"><Logo/><span>Clear agreements. Better working relationships.</span><p>Test release · PayPal sandbox · No real money moves.</p></footer>
-  <Dialog open={walkthrough!==null} onOpenChange={open=>{if(!open)setWalkthrough(null);}}><DialogContent wide className="walkthrough-dialog"><DialogHeader title={stages[walkthrough??0].title} description={["Turn the conversation into an agreement both people understand.","Know what passed, what needs attention, and what the evidence cannot prove.","See where the money is, and decide the next step together."][walkthrough??0]}/><figure className="walkthrough-screenshot">
-    <div className="walkthrough-screenshot-bar"><span><span className="walkthrough-status-dot"/> Inside Kept</span><a href={[agreeScreenshot,deliverScreenshot,paidScreenshot][walkthrough??0].src} target="_blank" rel="noreferrer">View full size <ArrowUpRight size={14}/></a></div>
+  <Dialog open={walkthrough!==null} onOpenChange={open=>{if(!open)setWalkthrough(null);}}><DialogContent wide className="walkthrough-dialog"><div className="walkthrough-step"><span>0{(walkthrough??0)+1}</span>{stages[walkthrough??0].name}</div><DialogHeader title={["Start on the same page.","See exactly what needs work.","Close with a clear receipt."][walkthrough??0]} description={["One brief, clear deliverables, and both signatures.","The referee checks the agreed brief and shows its evidence.","Approve the work, or agree on a split together."][walkthrough??0]}/><figure className="walkthrough-screenshot">
+    <div className="walkthrough-screenshot-bar"><span><span className="walkthrough-status-dot"/> Real project · {stages[walkthrough??0].name}</span><a href={[agreeScreenshot,deliverScreenshot,paidScreenshot][walkthrough??0].src} target="_blank" rel="noreferrer">View full size <ArrowUpRight size={14}/></a></div>
     <div className="walkthrough-image-scroll"><picture><source media="(max-width: 650px)" srcSet={[agreeMobile,deliverMobile,paidMobile][walkthrough??0].src}/><Image src={[agreeScreenshot,deliverScreenshot,paidScreenshot][walkthrough??0]} alt={["A signed project agreement between Maya and Ana, with the shared scope and milestone totals.","The AI referee identifies the incorrect sticker shape and explains its finding using the submitted files.","A 75/25 settlement with completed PayPal sandbox payout and refund receipts."][walkthrough??0]} sizes="(max-width: 650px) 90vw, 900px" className="walkthrough-image"/></picture></div>
-    <figcaption>{["Both people sign the same scope before work begins.","A real review, including the evidence behind a partly met criterion.","Both parties accepted this split. PayPal delivered the payout and refund."][walkthrough??0]}<span>Captured from a working sandbox project.</span></figcaption>
-   </figure><div className="walkthrough-actions"><ButtonLikeClose onClick={()=>setWalkthrough(null)}/><Link className="site-button" href="/signup">Start your own pact <ArrowUpRight size={15}/></Link></div></DialogContent></Dialog>
+    <figcaption>{["A shared scope keeps expectations clear from day one.","The brief asked for a round sticker. The submitted design was rectangular. The referee explains the mismatch.","$112.50 to the freelancer. $37.50 back to the client. Both transfers completed."][walkthrough??0]}<span>Actual Kept screenshots · PayPal sandbox</span></figcaption>
+   </figure><div className="walkthrough-actions"><ButtonLikeClose onClick={()=>setWalkthrough(null)}/>{walkthrough!==2?<button className="site-button" onClick={()=>{const next=(walkthrough??0)+1;setWalkthrough(next);setSelectedCard(next);setStage(next);}}>Next: {stages[(walkthrough??0)+1]?.name} <ArrowRight size={15}/></button>:<Link className="site-button" href="/signup">Start your own pact <ArrowUpRight size={15}/></Link>}</div></DialogContent></Dialog>
   <Dialog open={demo} onOpenChange={setDemo}><DialogContent><span className="eyebrow mb-4">TAKE A LOOK AROUND</span><DialogHeader title="Which side are you on?" description="A private workspace. Switch roles anytime."/><DemoButtons/></DialogContent></Dialog>
  </div>;
 }

diff --git a/src/app/globals.css b/src/app/globals.css
@@ -5,14 +5,14 @@
  * ember (wax-seal) as the accent, amber for money held in escrow.
  */
 @theme {
-  --color-paper: #f6f8fa;
-  --color-paper-2: #eef2f5;
-  --color-card: #ffffff;
-  --color-ink: #18252d;
-  --color-ink-2: #485b67;
-  --color-ink-3: #657681;
-  --color-line: #e1e8ec;
-  --color-line-2: #cdd8df;
+  --color-paper: #f7f3eb;
+  --color-paper-2: #eee8dc;
+  --color-card: #fffdf8;
+  --color-ink: #193c34;
+  --color-ink-2: #455f54;
+  --color-ink-3: #64746a;
+  --color-line: #e2ddcf;
+  --color-line-2: #cfc8b8;
 
   --color-jade-50: #edf7f4;
   --color-jade-100: #d3ebe3;
@@ -140,8 +140,8 @@
 
 /* Workspace: quiet surfaces, a distinct navigation rail, and focused motion. */
 .kept-workspace { background:#f4f7f9; }
-.kept-workspace > aside { background:#fff; border-color:#e1e8ec; }
-.kept-workspace header { background:#ffffffed; border-color:#e1e8ec; }
+.kept-workspace > aside { background:#fff; border-color:#e2ddcf; }
+.kept-workspace header { background:#fffdf8ed; border-color:#e2ddcf; }
 .kept-workspace .display { font-family:var(--font-sans); font-weight:500; font-size:32px; letter-spacing:-.045em; line-height:1.2; }
 .kept-workspace main > div { animation-duration:.4s; }
 .kept-workspace main section { scroll-margin-top:90px; }

diff --git a/tests/e2e/landing.spec.ts b/tests/e2e/landing.spec.ts
@@ -7,7 +7,10 @@ test("mobile landing cards open accessible visual walkthroughs", async ({page}) 
   for (let i=0;i<3;i++) {
     await page.locator(".workflow-card").nth(i).click();
     await expect(page.getByRole("dialog")).toBeVisible();
-    await expect(page.getByRole("link",{name:"Start your own pact"})).toBeVisible();
+    await expect(page.getByRole("img")).toBeVisible();
+    await expect(page.locator(".workflow-card").nth(i)).toHaveAttribute("aria-pressed", "true");
+    await page.waitForTimeout(4700);
+    await expect(page.locator(".workflow-card").nth(i)).toHaveClass(/selected/);
     expect(await page.evaluate(()=>document.documentElement.scrollWidth<=innerWidth)).toBe(true);
     await page.keyboard.press("Escape");
     await expect(page.getByRole("dialog")).toBeHidden();
